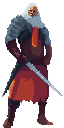
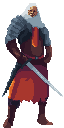
image updates

diff --git a/internal/game/actors/champion.go b/internal/game/actors/champion.go
@@ -22,7 +22,7 @@ func Champion() game.Class {
 	class := game.NewClass()
 	class.ID = uuid.MustParse("019f5f12-6e78-7eda-b638-980453e3eaba")
 	class.Name = "Champion"
-	class.SpriteURL = "/actors/202_crop.png"
+	class.SpriteURL = "/actors/242_64128.png"
 	class.Affinities = game.Set[game.Affinity]{
 		game.Physical: {},
 	}

diff --git a/internal/game/actors/rogue.go b/internal/game/actors/rogue.go
@@ -17,7 +17,7 @@ func Rogue() game.Class {
 		game.Physical: {},
 	}
 	class.Stats = map[game.Stat]float64{
-		game.Health:         80,
+		game.Health:         70,
 		game.Speed:          120,
 		game.Melee:          100,
 		game.Ranged:         120,
